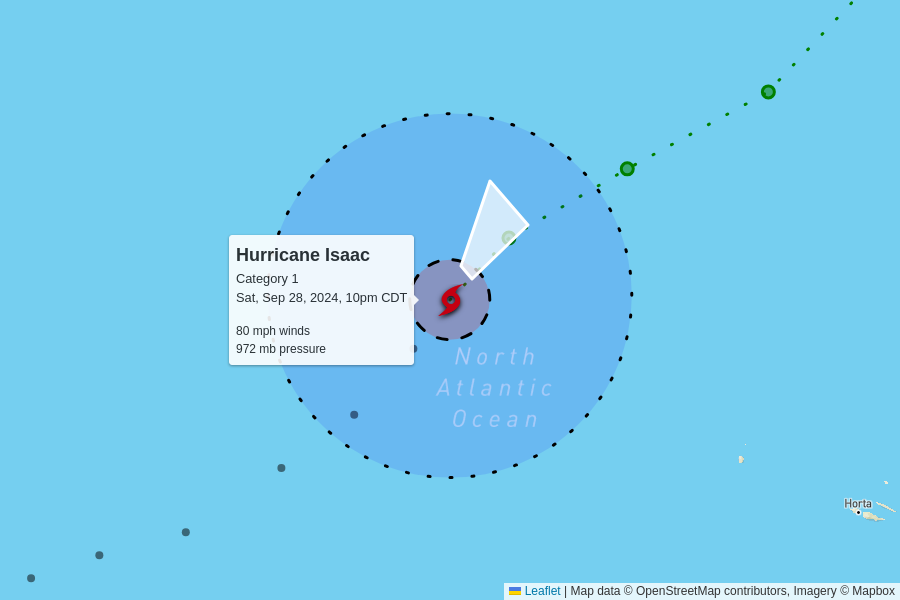
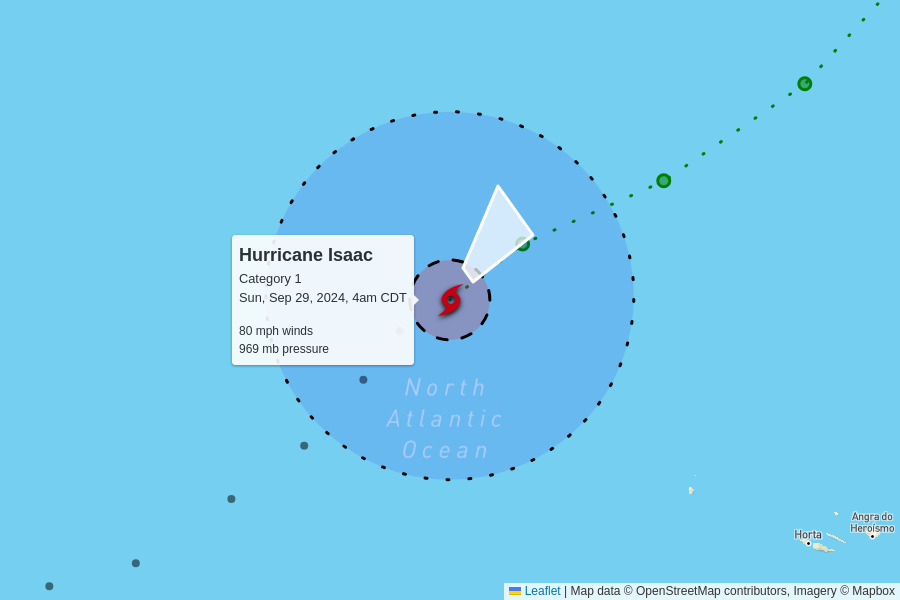
automatic update

diff --git a/docs/index.html b/docs/index.html
@@ -104,7 +104,7 @@
         <td colspan="6" class="storm category-1" >
           <h2>
             Hurricane Isaac - Category 1
-            <p class="updated">last updated <span data-time>2024-09-29T03:00:00.000Z</span></p>
+            <p class="updated">last updated <span data-time>2024-09-29T09:00:00.000Z</span></p>
           </h2>
         </td>
       </tr>
@@ -119,12 +119,12 @@
       </tr>
       <tr>
         <td class="spacer"></td>
-        <td>80 mph<br>-20 mph since last update</td>
-        <td>972 mb<br>+4 mb since last update</td>
+        <td>80 mph<br>0 mph since last update</td>
+        <td>969 mb<br>-3 mb since last update</td>
         <td>
-          14 mph to the northeast
+          13 mph to the northeast
           <br/>
-          <span style="display: inline-block; font-size: 1.5em; transform: rotate(40deg);">↑</span>
+          <span style="display: inline-block; font-size: 1.5em; transform: rotate(45deg);">↑</span>
         </td>
         <td><a href="https://raw.githubusercontent.com/mgwalker/atlantic-hurricanes/main/data/csv/AL102024.csv">AL102024.csv</a></td>
         <td><a href="https://www.nhc.noaa.gov/archive/2024/ISAAC.shtml?">NHC advisories</a></td>
@@ -148,7 +148,7 @@
         <td colspan="6" class="storm category-0" >
           <h2>
             Tropical Storm Joyce
-            <p class="updated">last updated <span data-time>2024-09-29T03:00:00.000Z</span></p>
+            <p class="updated">last updated <span data-time>2024-09-29T09:00:00.000Z</span></p>
           </h2>
         </td>
       </tr>
@@ -164,7 +164,7 @@
       <tr>
         <td class="spacer"></td>
         <td>45 mph<br>0 mph since last update</td>
-        <td>1004 mb<br>+1 mb since last update</td>
+        <td>1004 mb<br>0 mb since last update</td>
         <td>
           9 mph to the northwest
           <br/>
